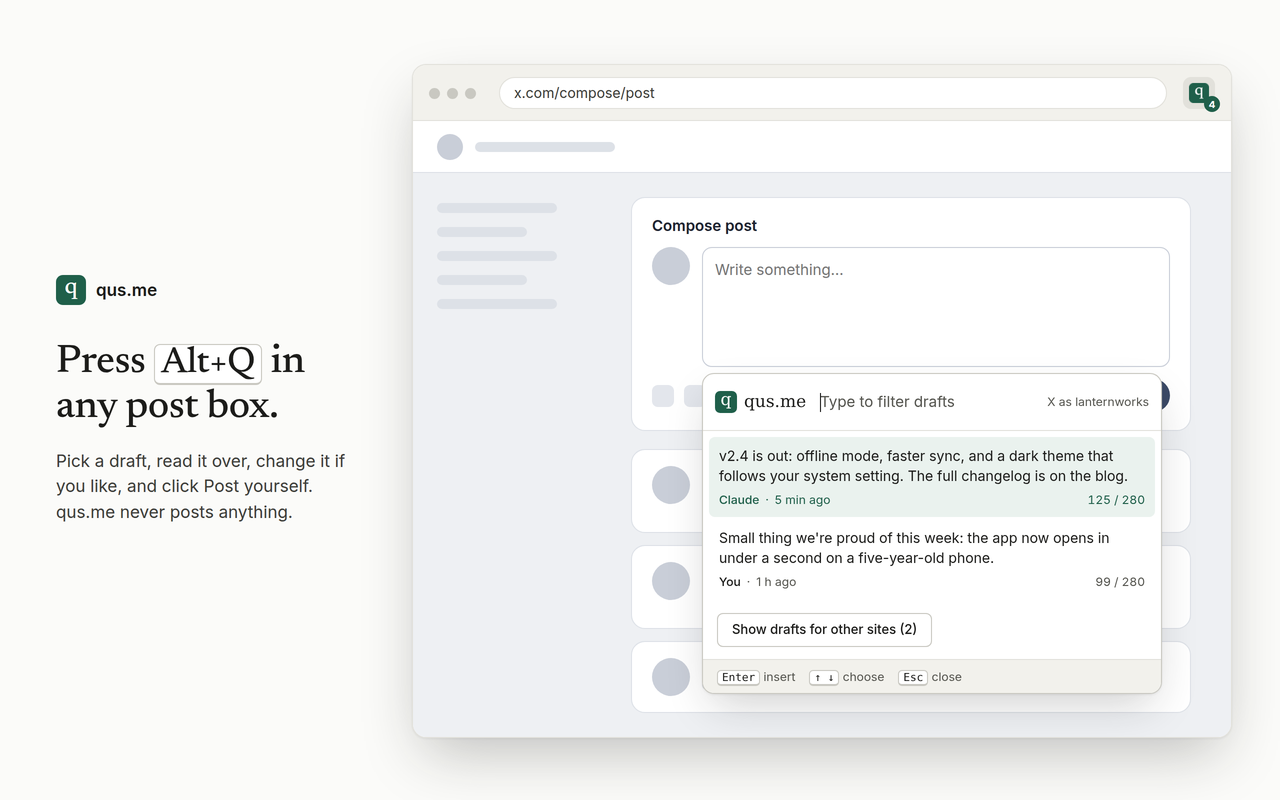
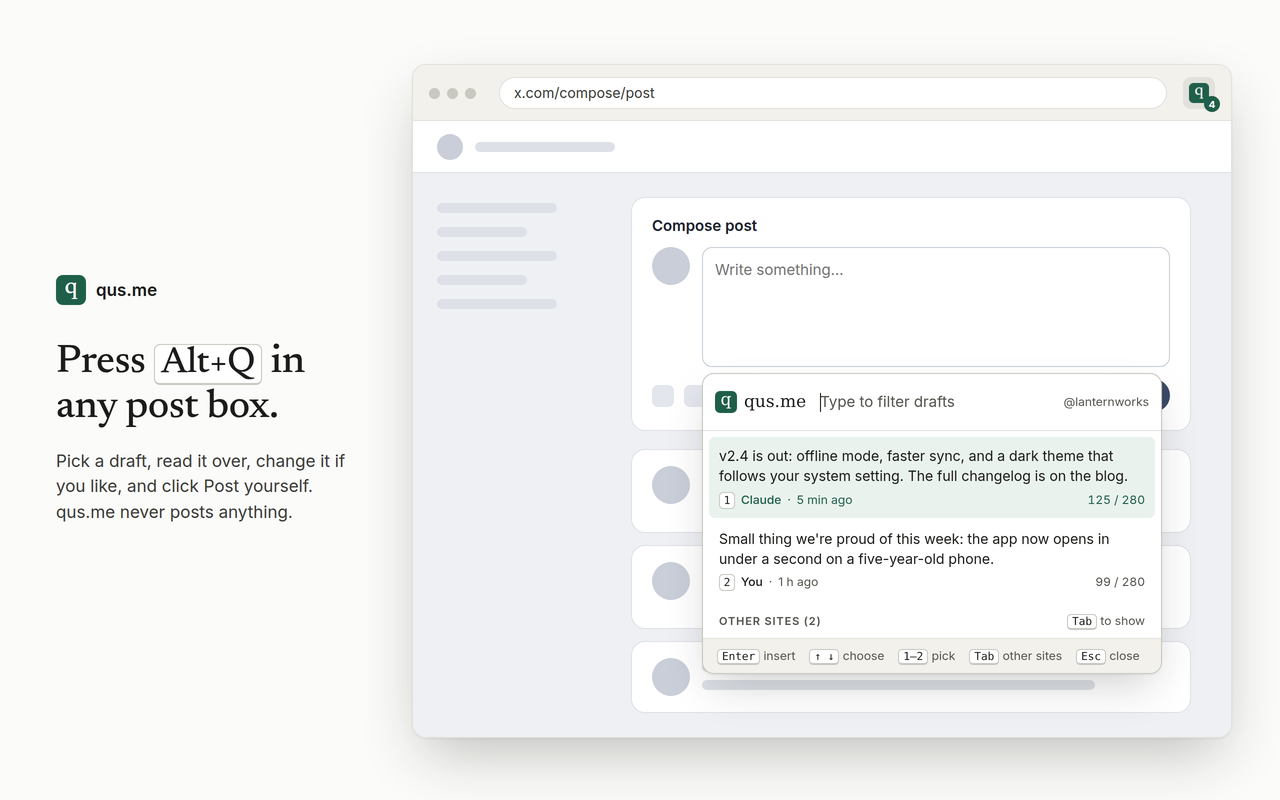
chore(store): re-capture the picker and setup screenshots

Changed region(s): [[0.5312, 0.5938, 0.9062, 0.875], [0.8125, 0.5, 0.8438, 0.5312]]

diff --git a/scripts/store-screenshots/capture.py b/scripts/store-screenshots/capture.py
@@ -226,7 +226,7 @@ def picker_view(drafts: list[dict], now: int) -> dict:
         "state": "ready",
         "here": [item(d, False) for d in active if d["site"] == "x"],
         "others": [item(d, True) for d in active if d["site"] != "x"],
-        "context": "X as lanternworks",
+        "context": "@lanternworks",
     }
 
 
